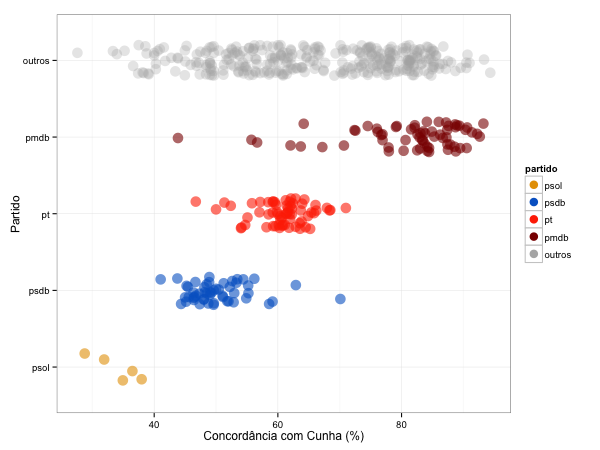
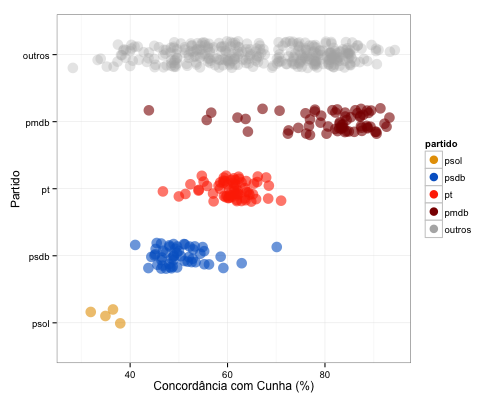
Corrige Daciolo, adiciona ponto pra cunha e melhora textos

diff --git a/index.html b/index.html
@@ -15,7 +15,6 @@
     <link href="css/bootstrap.min.css" rel="stylesheet">
 
     <!-- Custom CSS -->
-    <!--<link href="css/one-page-wonder.css" rel="stylesheet">-->
     <link href="css/custom.css" rel="stylesheet">
 
     <!-- HTML5 Shim and Respond.js IE8 support of HTML5 elements and media queries -->
@@ -84,16 +83,36 @@
             </div>
         </div>
 
+        <hr class="featurette-divider">
+
         <div class="row vertical-align">
+            <div class="col-md-8" id="geral">
+                <a href="images/visao-geral-gg.png">
+                    <img class="img-responsive pull-right" src="images/visao-geral.png">
+                </a>
+            </div>
             <div class="col-md-4">
                 <h2 class="featurette-heading">As posições
                     <span class="text-muted">pelas ações</span>
                 </h2>
                 <p class="lead">A partir das votações, criamos um mapa que agrupa os deputados da house of cunha que votam parecidos. Há três grupos maiores que detalharemos mais abaixo. (Você pode clicar na imagem para vê-la maior, se quiser procurar alguém...)</p>
             </div>
+        </div>
+
+        <hr class="featurette-divider">
+
+        <div class="row vertical-align">
+            <div class="col-md-4">
+                <h2 class="featurette-heading">Eduardo Cunha
+                    <span class="text-muted">como referência</span>
+                </h2>
+                <p class="lead">O ponto vermelho na figura ao lado ilustra onde estaria um deputado que seguisse exatamente as
+                    orientações de Eduardo Cunha. Cunha não vota, mas como ele é o líder do PMDB na Câmara, podemos utilizar as orientações
+                    do PMDB como orientações de Cunha.</p>
+            </div>
             <div class="col-md-8" id="geral">
-                <a href="images/visao-geral.png">
-                    <img class="img-responsive pull-left" src="images/visao-geral.png">
+                <a href="images/visao-geral-cc.png">
+                    <img class="img-responsive pull-left" src="images/visao-geral-cc.png">
                 </a>
             </div>
         </div>
@@ -107,7 +126,7 @@
                 </a>
             </div>
             <div class="col-md-4 pull-left" id="geral">
-                <h2 class="featurette-heading">Algumas referências
+                <h2 class="featurette-heading">Mais referências
                     <span class="text-muted">para orientação.</span>
                 </h2>
                 <p class="lead">Para situar a leitura do mapa, aqui estão onde ficaram alguns deputados icônicos. Se, assim como a gente, você é da Paraíba, temos uma versão com <a href="images/deputados-da-pb.png">destaque para os deputados da PB</a>.</p>
@@ -137,9 +156,9 @@
         <div class="row vertical-align" id="interativo">
             <div class="col-md-6 col-md-offset-3">
             <h2 class="featurette-heading" style="text-align: center">Alguém em particular?
-                <span class="text-muted" style="text-align: center">clique nos pontos abaixo.</span>
+                <span class="text-muted" style="text-align: center">passe o mouse ou toque nos pontos abaixo.</span>
             </h2>
-            <p class="lead  style="text-align: center">As cores são as mesmas que usamos acima.</p>
+            <p class="lead" style="text-align: center">As cores são as mesmas que usamos acima.</p>
             </div>
         </div>
         <div class="row">
@@ -156,7 +175,10 @@
                 <h2 class="featurette-heading">Os detalhes?
                     <span class="text-muted">Ok.</span>
                 </h2>
-                <p>Para fazer o mapa acima, utilizamos os dados de todas as votações da Câmara até julho/2015. A atividade dos deputados é comparada de acordo com sua similaridade, e o espaço no qual os distribuímos nas figuras é criado utilizando um método estatístico chamado Multiple Correspondence Analysis, uma técnica de redução de dimensionalidade para dados categóricos (essa última frase só deve fazer sentido se você gostar muito de estatística e Mineração de Dados).</p>
+                <p>Para fazer o mapa acima, utilizamos os dados de todas as votações da Câmara até julho/2015.
+                    A atividade dos deputados é comparada de acordo com sua similaridade, e o espaço no qual os distribuímos nas figuras é criado utilizando um método estatístico chamado Multiple Correspondence Analysis,
+                    uma técnica de redução de dimensionalidade para dados categóricos (essa última frase só deve fazer sentido se você gostar muito de estatística e Mineração de Dados).
+                    Quando um deputado não vota sim ou não, assumimos que ele concorda com a maioria.</p>
                 <p class="lead">Mas não acabou. Abaixo, o Cunhômetro!</p>
             </div>
         </div>
@@ -198,7 +220,7 @@
         <div class="col-md-4">
             <h2 class="featurette-heading">E quem é oposição
                 <span class="text-muted">e vota diferente dele?</span>
-            <p class="lead">Quanto cada deputado concorda com as posições de Cunha (aqui as recomendações do PMDB, o partido do qual ele é líder)</p>
+            <p class="lead">Quem menos concorda são os deputados mais abaixo nessa lista. Hoje, Cabo Daciolo e Jean Wyllis.</p>
             </h2>
         </div>
     </div>
@@ -218,7 +240,7 @@
 
         <div class="row" id="quemMeRepresenta">
             <div class="col-md-offset-2 col-md-8 headline2">
-                Quem me representa?
+                Epílogo: Quem me representa?
             </div>
         </div>
 
@@ -228,12 +250,12 @@
         <div class="row">
             <div class="col-md-4">
                 <!--<span class="glyphicon glyphicon-question-sign"></span>-->
-                <h2 class="featurette-heading">Quem me representa?
-                    <span class="text-muted">Descubra que deputado pensa igual a você.</span>
+                <h2 class="featurette-heading">Descubra que deputados
+                    <span class="text-muted">pensam como você.</span>
                 </h2>
                 <p class="lead">Outro projeto realizado pelo <a href="https://www.facebook.com/analytics.ufcg">Laboratório Analytics</a>
-                    é o  <a href="http://www.qmrepresenta.com.br">Quem Me Representa?</a>. Você dá sua opinião nos temas listados e
-                    descobre quais deputados votaram parecido com suas opiniões.
+                    é o  <a href="http://www.qmrepresenta.com.br">Quem Me Representa?</a> Nele você dá sua opinião em temas
+                    polêmicos e descobre quais deputados votaram concordando com suas opiniões.
 
                 </p>
             </div>
@@ -253,6 +275,7 @@
                     <p>Projeto criado por Nazareno Andrade e João Arthur Brunet Monteiro no 3o Hackfest do
                         <a href="https://www.facebook.com/analytics.ufcg">Laboratório Analytics</a></p>
                     <p>O código que gera essa análise <a href="http://github.com/nazareno/houseofcunha">está no github</a>, e pode ser usado e alterado.</p>
+                    <p>Dúvidas? Sugestões? Manda <a href="https://www.facebook.com/analytics.ufcg">pra gente do Facebook.</a></p>
                     <a rel="license" href="http://creativecommons.org/licenses/by/4.0/"><img alt="Creative Commons License" style="border-width:0" src="https://i.creativecommons.org/l/by/4.0/88x31.png" /></a>
                 </div>
             </div>
